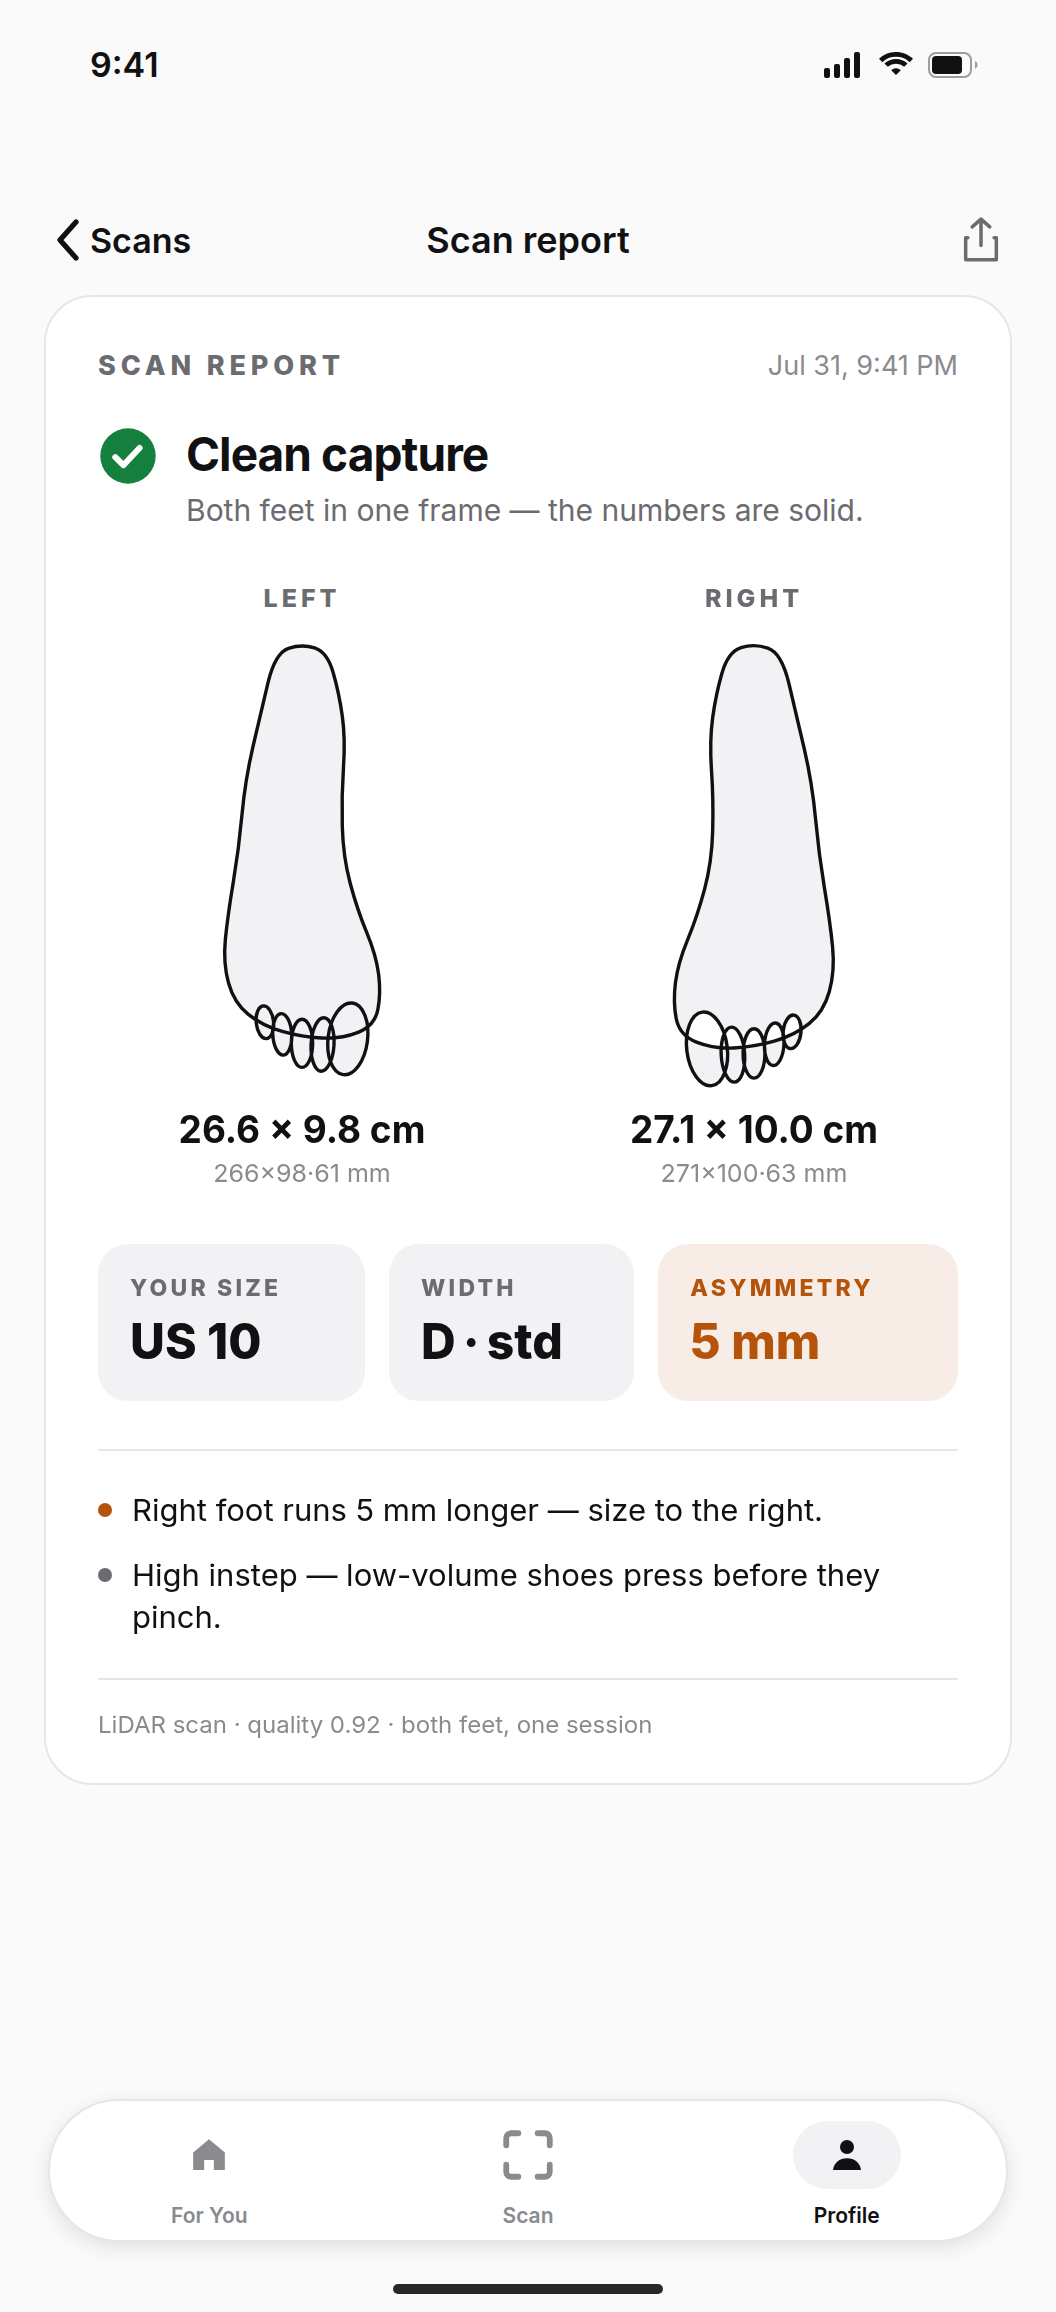
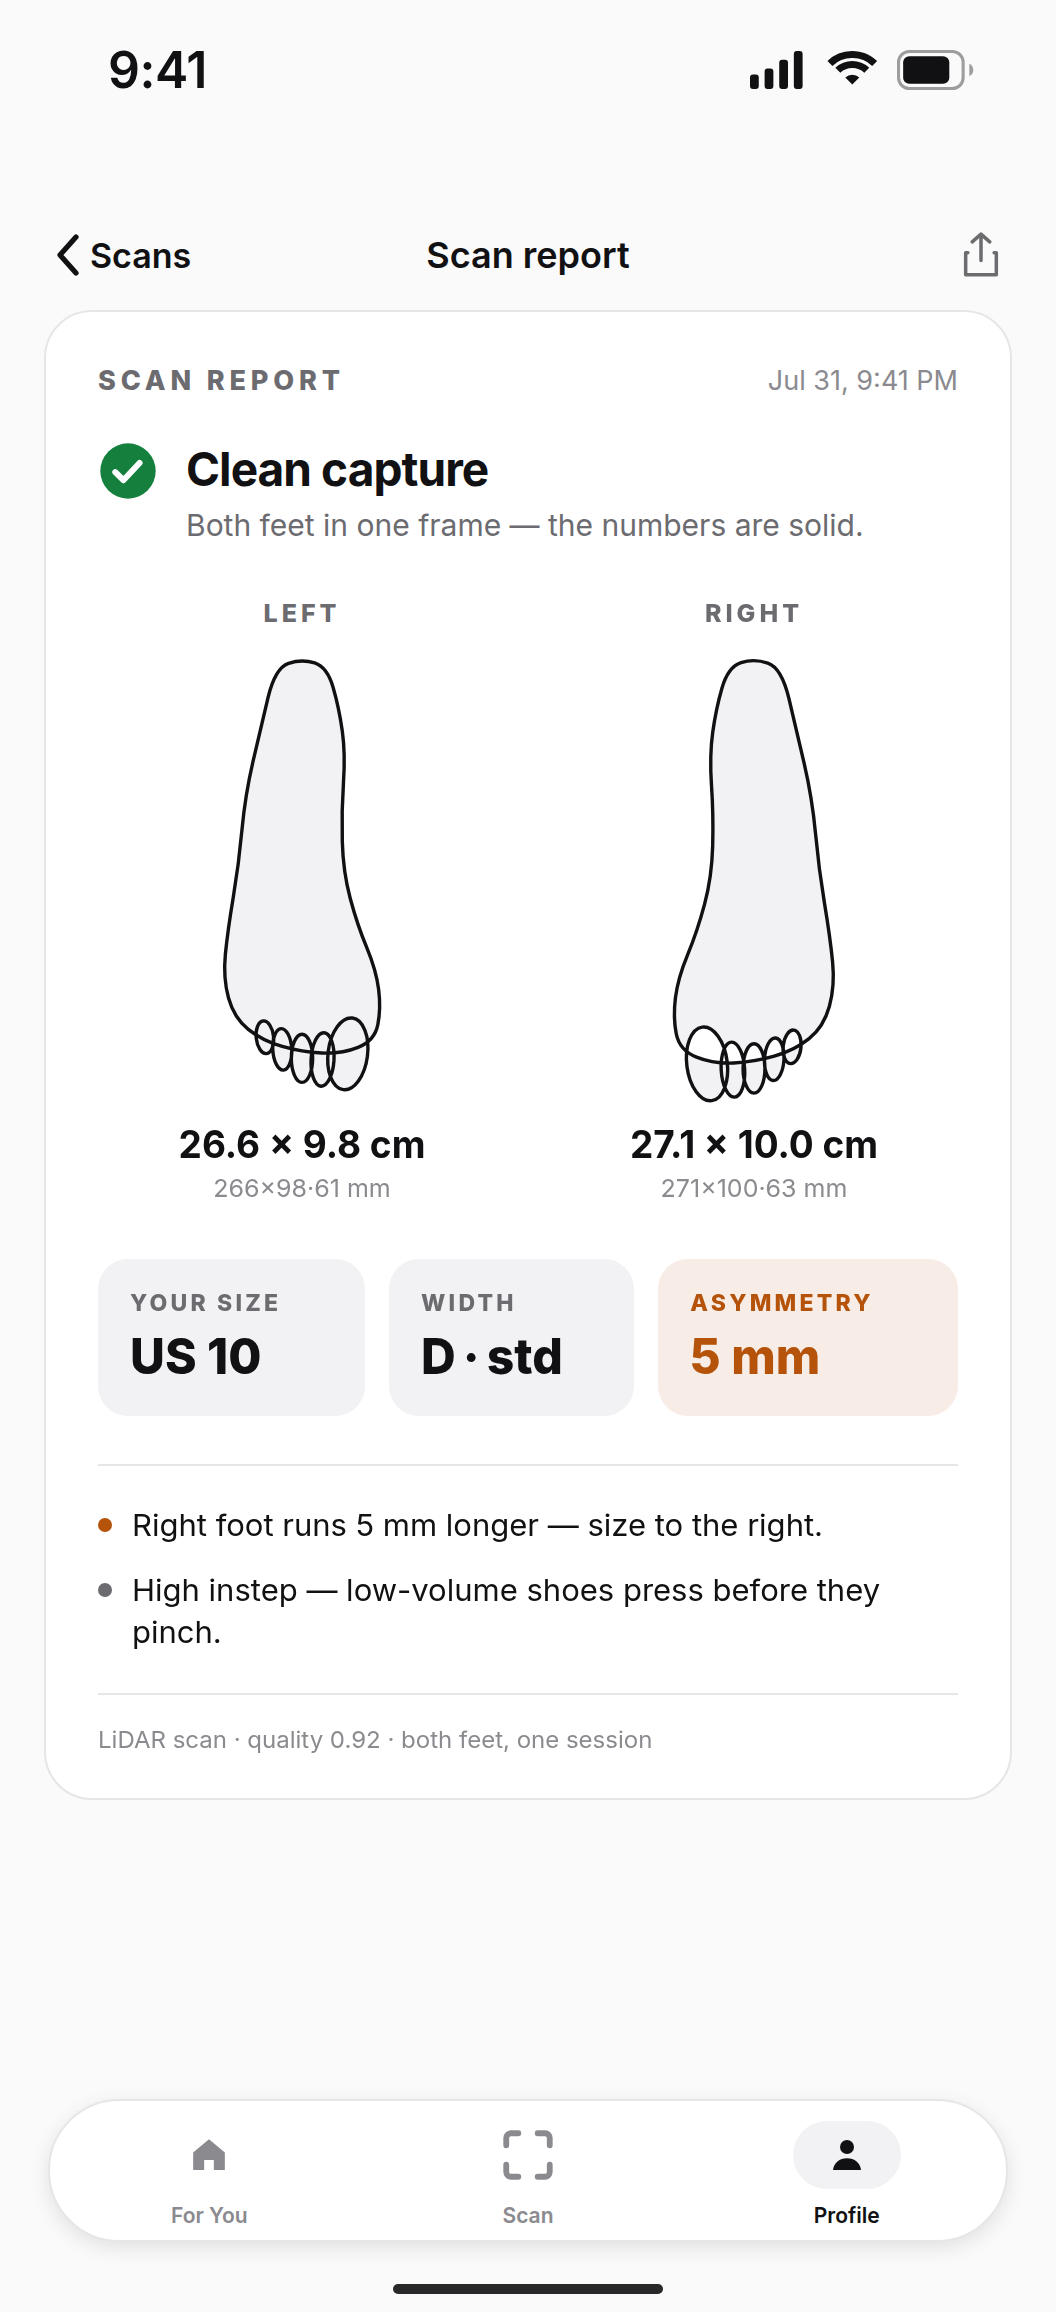
pins: per-screenshot prompts, real-scale status bar, no corner wordmark
Splits NANOBANANA.md into three complete standalone prompts (Scan
regenerates the viewfinder photo; Analyze and Choose preserve the screen
pixel-exact, with the critical strings called out). Drops the SoleFit
brand chip from the posts and scales the status bar to real iPhone
capture proportions — the time and glyphs were noticeably undersized.
Regenerates all pins and screenshots.

Claude-Session: https://claude.ai/code/session_01DF12MeCQsBsp8TmeobhWMm

diff --git a/_tools/pins-scene.css b/_tools/pins-scene.css
@@ -143,11 +143,12 @@ html, body {
 .statusbar {
   position: relative; z-index: 30;
   display: flex; justify-content: space-between; align-items: center;
-  padding: 44px 74px 0 90px;
-  font-size: 34px; font-weight: 600;
+  padding: 40px 76px 0 108px;
+  font-size: 50px; font-weight: 600; letter-spacing: -0.01em;
 }
-.statusbar .right { display: flex; gap: 14px; align-items: center; }
-.statusbar svg { display: block; }
+.statusbar .right { display: flex; gap: 18px; align-items: center; }
+.statusbar svg { display: block; width: auto; height: 38px; }
+.statusbar svg:last-child { height: 40px; }
 .statusbar.lite, .statusbar.lite svg { color: #fff; fill: #fff; }
 
 .navrow {

diff --git a/pins/NANOBANANA.md b/pins/NANOBANANA.md
@@ -1,124 +1,126 @@
-# Generating the pinned posts with Nano Banana (Gemini image editing)
+# Generating the pinned posts with Nano Banana
 
-Workflow: capture three real screenshots from the app, then feed each one to
-Nano Banana with a prompt below. The model builds the scene (dark studio,
-angled iPhone, big word) around your screenshot instead of inventing the UI —
-that's the whole point: the screen content stays real.
+Three generations, one screenshot each. Attach the `screenshot.png` from the
+matching pin folder (or a real capture from the app — better when you have
+one) and paste the full prompt below. Ask for **1080×1350 (4:5 portrait)**;
+if the tool won't, generate portrait and crop.
 
-## 1. Capture the screenshots
+After every generation, zoom in and check: screen text unchanged (every
+digit, every shoe name), Dynamic Island small (~⅓ of screen width), the big
+word spelled right, no invented UI. Retyping screen text is the model's most
+common failure — if it drifts, re-run with "Keep the attached screenshot
+pixel-exact on the display. Only generate the phone body and the scene
+around it."
 
-In Xcode, run SoleFit on a simulator (or device) and grab these three screens
-(⌘S in the simulator saves a PNG):
+---
 
-| For | Screen in the app |
-|---|---|
-| Scan | The scan flow mid-capture — camera pointed down at your feet (bare feet or thin socks, wood/hard floor), with the lock brackets and mode chips visible. Needs a real device — the simulator has no camera. |
-| Analyze | Profile → scan history → a scan report (the "SCAN REPORT" card with both footprints and measurements). |
-| Choose | The "Best for your feet" ranking (fit-ranked list with the % fit badges). |
+## Prompt 1 — Scan  (attach `01-scan/screenshot.png`)
 
-Tips for cleaner posts:
-- Set the clock to 9:41 if you care (Settings in sim, or crop keeps it anyway).
-- Portrait orientation, full-screen, no debug overlays.
-- Use a scan with a visible asymmetry flag for Analyze — it's the interesting part.
-
-## 1b. No app build handy? Use the bundled screenshots
-
-Each pin folder already contains a `screenshot.png` — the same screens the
-rendered pins use, exported at 1056×2312 like a real capture. They work as
-Nano Banana input as-is.
-
-**The scanner one is special.** Its camera view is illustrated, and it looks
-it — do NOT ask the model to keep it. The attachment's job is only to define
-the UI overlay; the feet must be generated fresh. Attach
-`01-scan/screenshot.png` and add:
-
-> The attached image defines the UI overlay ONLY. Completely replace the
-> illustrated camera view behind the UI with a photorealistic iPhone camera
-> frame: a true first-person view — the photographer holds the phone at chest
-> height pointing straight down at their OWN two feet in white crew socks on
-> an oak hardwood floor. Orientation matters: the shins enter the frame from
-> the BOTTOM edge (nearest the camera) and the toes point AWAY, toward the
-> top of the frame. Feet slightly splayed, soft indoor window light, gentle
-> shadows under the feet, believable fabric wrinkles and sock texture, subtle
-> sensor grain. It must look like a real photo, not a render.
+> Create a 1080×1350 (4:5 portrait) Instagram post: a premium app-marketing
+> device shot in a dark studio.
+>
+> Scene: near-black charcoal studio (#0D0D10), a soft gray key-light glow
+> behind the phone, a subtle diagonal concrete-floor wedge in the lower-left,
+> fine film grain — high-end product photography.
+>
+> Device: a titanium iPhone 15 Pro floating at a noticeable 3D angle — tilted
+> about 10 degrees with visible perspective, like it's leaning. Photoreal:
+> thin bezels, correctly small Dynamic Island (about one third of the screen
+> width), side buttons, soft screen glare, deep contact shadow.
+>
+> The attached image is the phone's screen, and it defines the UI overlay
+> ONLY. Completely replace the illustrated camera view behind the UI with a
+> photorealistic iPhone camera frame: a true first-person view — the
+> photographer holds the phone at chest height pointing straight down at
+> their OWN two feet in white crew socks on an oak hardwood floor.
+> Orientation matters: shins enter the frame from the BOTTOM edge (nearest
+> the camera) and the toes point AWAY, toward the top of the frame. Feet
+> slightly splayed, soft indoor light, gentle shadows under the feet, real
+> fabric wrinkles and knit texture, subtle sensor grain. It must look like a
+> real photo, not a render.
 >
 > On top of that photo, reproduce the UI overlay from the attachment exactly:
 > status bar, "LiDAR · BOTH FEET" pill, "Hold steady — capturing both feet"
 > pill, white corner brackets, LEFT ✓ and RIGHT ✓ tags, the capture ring, and
 > the LiDAR / Face ID depth / Photos chips — same positions, same text.
+>
+> Typography on the post: one large white word, "Scan", bold geometric sans
+> (like Inter ExtraBold), bottom-left, underlined, partially overlapping the
+> phone's lower edge. No other text, no logos, no watermarks, no hands.
 
-If the result still looks synthetic, generate in two steps: first ask for
-just the photo ("first-person iPhone photo looking straight down at my own
-feet in white crew socks on an oak floor — toes pointing away toward the top
-of frame, shins entering from the bottom, natural light — realistic, no UI"), pick
-the best one, then attach BOTH that photo and the screenshot: "use the first
-image as the camera view, overlay the UI from the second exactly." Smaller
-asks, better odds. The honest gold standard remains a real 5-second photo of
-actual feet — any phone, looking down — used the same way.
+If the feet still look synthetic, split it: first generate only the photo
+("first-person iPhone photo looking straight down at my own feet in white
+crew socks on an oak floor — toes pointing away toward the top of frame,
+shins entering from the bottom, natural light — realistic, no UI"), then
+attach that photo AND the screenshot: "use the first image as the camera
+view, overlay the UI from the second exactly." A real 5-second photo of
+actual feet beats both.
 
-## 2. The prompts
+---
 
-Attach ONE screenshot per generation. Ask for **1080×1350 (4:5 portrait)**.
-The line about not altering the screen is the one that matters — repeat it if
-the model takes liberties.
-
-### Shared scene (all three)
+## Prompt 2 — Analyze  (attach `02-analyze/screenshot.png`)
 
 > Create a 1080×1350 (4:5 portrait) Instagram post: a premium app-marketing
 > device shot in a dark studio.
 >
-> Scene: near-black charcoal studio (#0D0D10) with a soft gray key light glow
-> behind the phone and a subtle diagonal concrete-floor wedge in one corner.
-> Fine film grain, high-end product-photography lighting.
+> Scene: near-black charcoal studio (#0D0D10) with a soft spotlight glow
+> centered behind the phone — no floor wedge, pure dark backdrop, fine film
+> grain, high-end product photography.
 >
-> Device: a titanium iPhone 15 Pro floating at a slight 3D angle, photoreal —
-> thin bezels, correctly small Dynamic Island, side buttons, soft screen
-> glare, deep contact shadow below.
+> Device: a titanium iPhone 15 Pro standing nearly upright, only a slight
+> turn, centered. Photoreal: thin bezels, correctly small Dynamic Island
+> (about one third of the screen width), side buttons, soft screen glare,
+> deep contact shadow.
 >
 > The attached image is the phone's screen. Place it on the display exactly
-> as provided — do not redraw, restyle, retype, or "improve" any of it. Every
-> word, number, icon and layout must remain pixel-identical to the attachment.
+> as provided — do not redraw, restyle, retype, or "improve" any of it.
+> Every word, number, footprint outline, icon and layout must remain
+> pixel-identical to the attachment, including "26.6 × 9.8 cm",
+> "27.1 × 10.0 cm", "US 10", "D · std" and "5 mm".
 >
-> Typography: one large white word in a bold geometric sans (like Inter
-> ExtraBold), bottom-left, underlined, partially overlapping the phone's lower
-> edge. Small "● SoleFit" wordmark top-left — white text, red dot.
+> Typography on the post: one large white word, "Analyze", bold geometric
+> sans (like Inter ExtraBold), bottom-left, underlined, partially overlapping
+> the phone's lower edge. No other text, no logos, no watermarks, no hands.
+
+---
+
+## Prompt 3 — Choose  (attach `03-choose/screenshot.png`)
+
+> Create a 1080×1350 (4:5 portrait) Instagram post: a premium app-marketing
+> device shot in a dark studio.
 >
-> No other text, no watermarks, no extra objects, no hands.
+> Scene: near-black charcoal studio (#0D0D10), a soft gray key-light glow
+> behind the phone, a subtle diagonal floor split in the lower-right, fine
+> film grain — high-end product photography.
+>
+> Device: a titanium iPhone 15 Pro leaning about 7 degrees with the
+> perspective turned slightly left. Photoreal: thin bezels, correctly small
+> Dynamic Island (about one third of the screen width), side buttons, soft
+> screen glare, deep contact shadow.
+>
+> The attached image is the phone's screen. Place it on the display exactly
+> as provided — do not redraw, restyle, retype, or "improve" any of it.
+> Every shoe name (Pegasus 41, Ultraboost Light, Air Jordan 1 High OG,
+> Clifton 9, Dunk Low, 990v6, Samba OG), every "% fit" badge, every size
+> line and the chip row must remain pixel-identical to the attachment.
+>
+> Typography on the post: one large white word, "Choose", bold geometric
+> sans (like Inter ExtraBold), bottom-left, underlined, partially overlapping
+> the phone's lower edge. No other text, no logos, no watermarks, no hands.
 
-### Per-post additions
+---
 
-**Scan** (attach the scanner screenshot):
-> The word is "Scan". Tilt the phone noticeably — rotated ~10° with visible
-> 3D perspective, like it's leaning. Floor wedge in the lower-left.
+## Capturing real screenshots instead (better input when possible)
 
-**Analyze** (attach the scan-report screenshot):
-> The word is "Analyze". Phone nearly upright with only a slight turn,
-> centered, spotlight glow behind it. No floor wedge — pure dark backdrop.
+- **Choose**: the "Best for your feet" ranking, in the simulator (⌘S saves a PNG).
+- **Analyze**: Profile → scan history → a scan report, ideally with an
+  asymmetry flag.
+- **Scan**: needs a real device (the simulator has no camera) — which also
+  gets you real feet in the viewfinder, making prompt 1's replacement step
+  unnecessary.
 
-**Choose** (attach the ranking screenshot):
-> The word is "Choose". Phone leaning ~7° the other way, perspective turned
-> slightly left. Diagonal floor split in the lower-right.
+## Posting
 
-## 3. Check the output before posting
-
-Nano Banana WILL sometimes rewrite screen text — it's the most common failure.
-Zoom in and verify against your screenshot:
-
-- every fit % and measurement digit matches
-- shoe names spelled exactly (Pegasus 41, Ultraboost Light, 990v6…)
-- the Dynamic Island is small (~⅓ of screen width), not a fat pill
-- no invented UI (extra buttons, wrong tab bar)
-- the big word is spelled correctly and underlined
-
-If the screen drifted, re-run with: "Keep the attached screenshot pixel-exact
-on the display. Only generate the phone body and the scene around it."
-
-Aspect ratio note: if the tool won't do 4:5 natively, generate square or
-portrait and crop to 1080×1350 — keep the word and phone inside the middle
-4:5 region.
-
-## 4. Posting
-
-Same as the rendered pins — captions and hashtags are in each pin folder's
-`caption.md`, and the pinning order (Choose first, then Analyze, then Scan)
-is in [`README.md`](README.md).
+Captions and hashtags are in each pin folder's `caption.md`. Pin order:
+**Choose first, then Analyze, then Scan** — Instagram puts the newest pin
+leftmost, so the grid reads Scan → Analyze → Choose.
